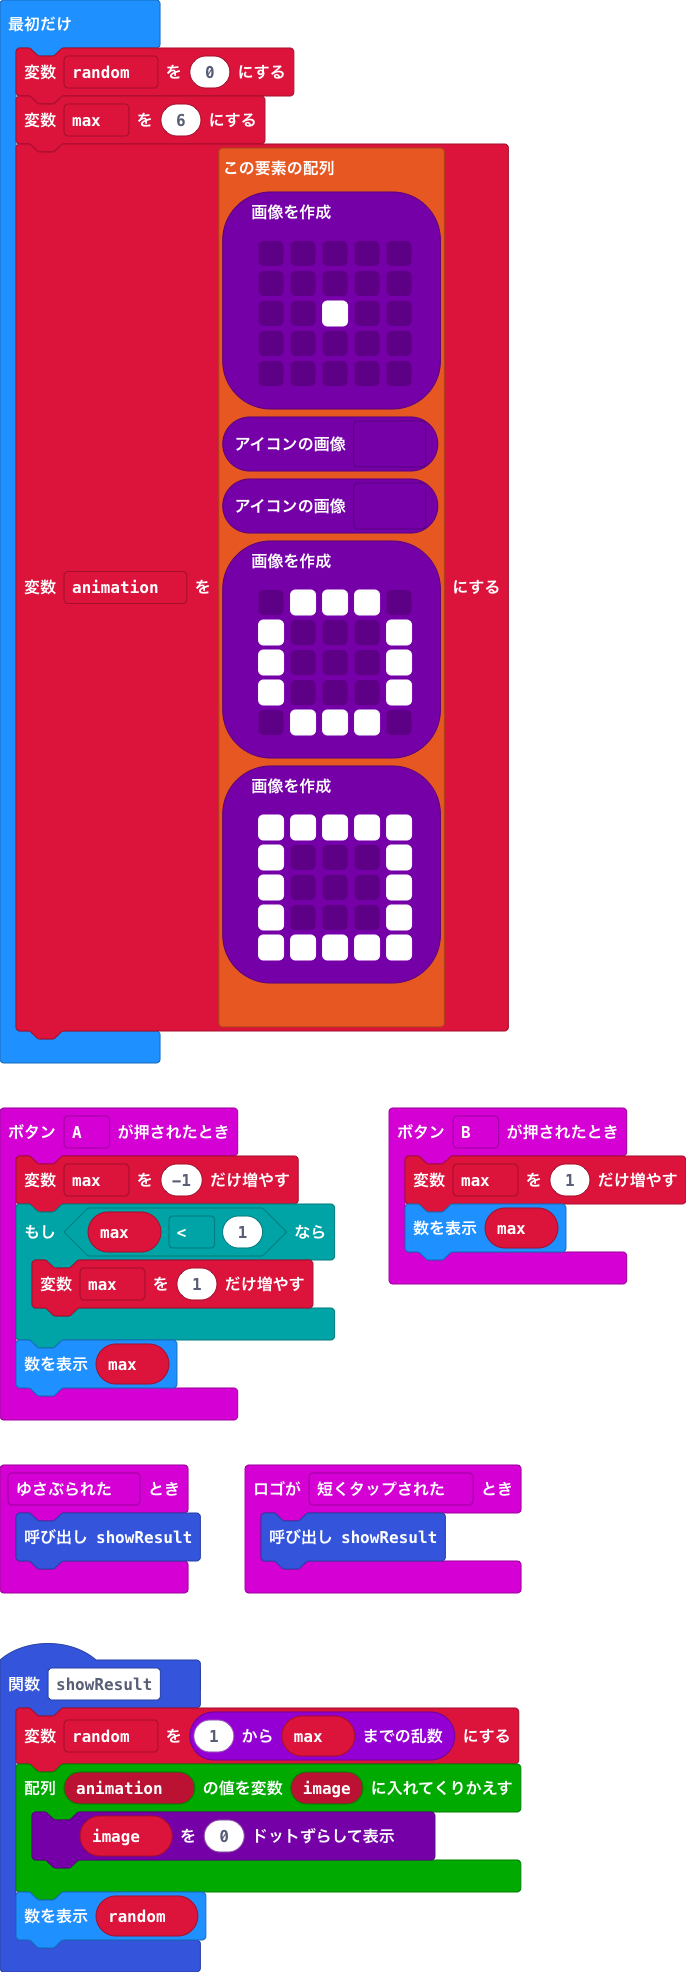
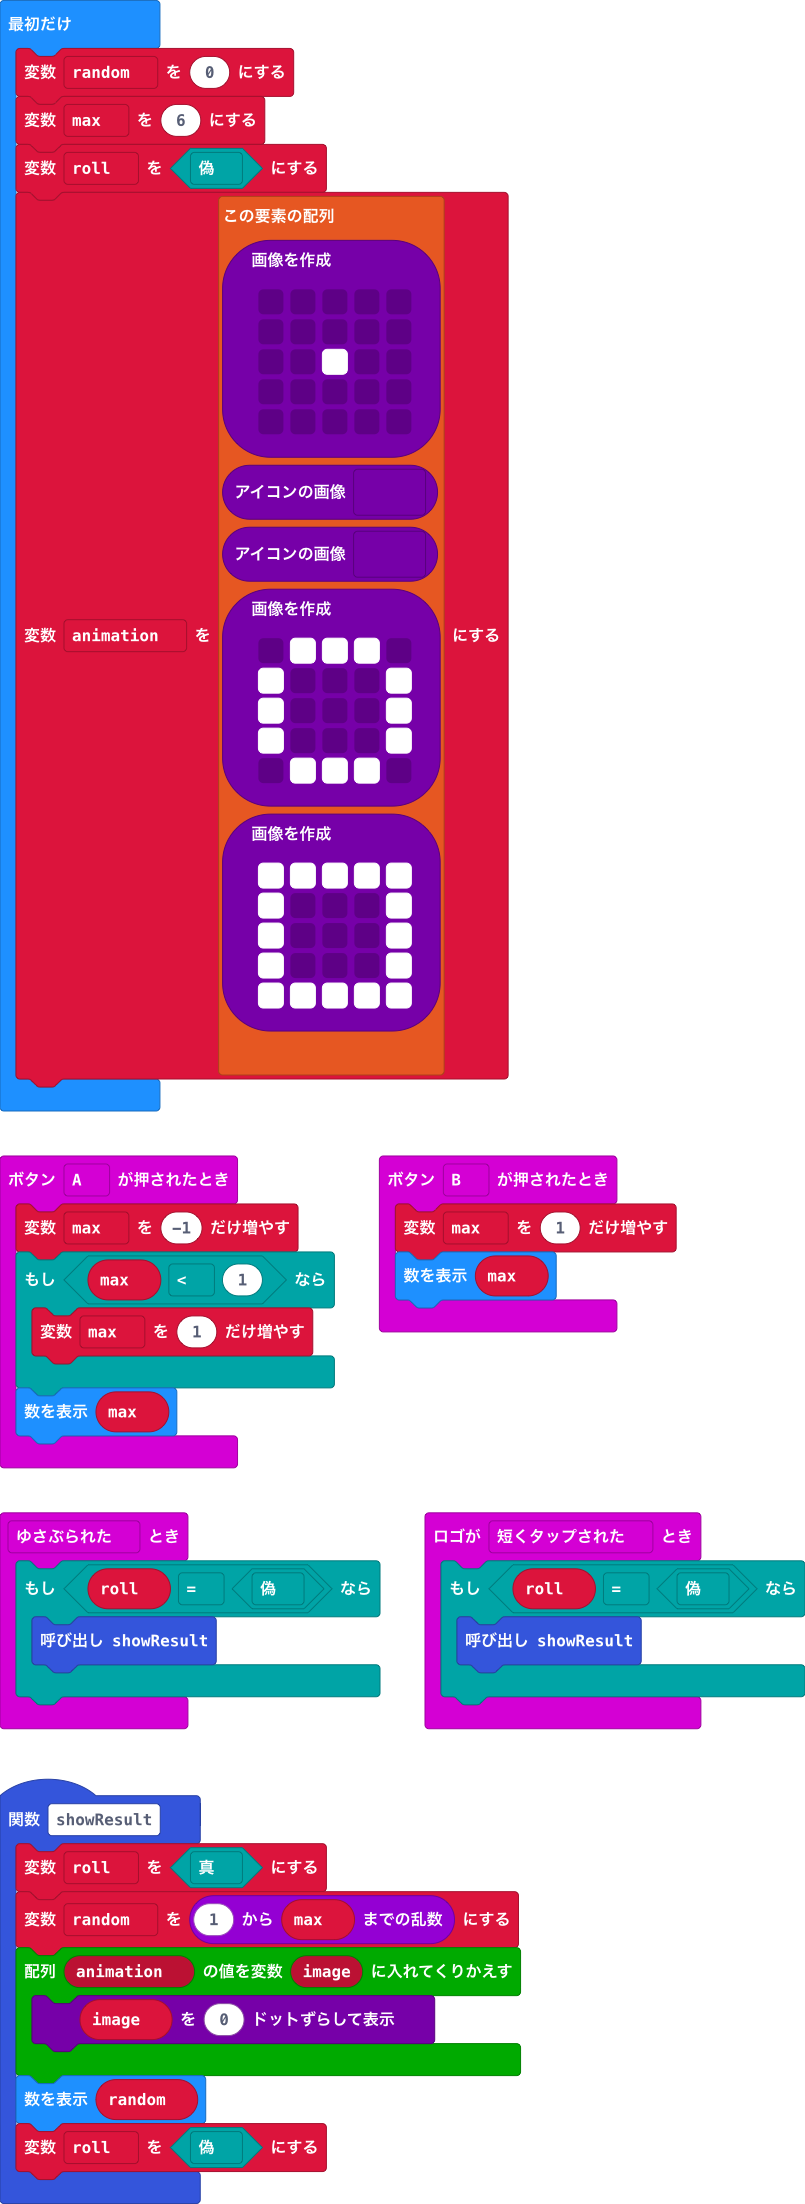
roll中にボタン/シェイクが反応しないように変更

diff --git a/main.ts b/main.ts
@@ -6,27 +6,35 @@ input.onButtonPressed(Button.A, function () {
     basic.showNumber(max)
 })
 input.onGesture(Gesture.Shake, function () {
-    showResult()
+    if (roll == false) {
+        showResult()
+    }
 })
 input.onButtonPressed(Button.B, function () {
     max += 1
     basic.showNumber(max)
 })
 function showResult () {
+    roll = true
     random = randint(1, max)
     for (let image of animation) {
         image.showImage(0)
     }
     basic.showNumber(random)
+    roll = false
 }
 input.onLogoEvent(TouchButtonEvent.Pressed, function () {
-    showResult()
+    if (roll == false) {
+        showResult()
+    }
 })
 let animation: Image[] = []
+let roll = false
 let max = 0
 let random = 0
 random = 0
 max = 6
+roll = false
 animation = [
 images.createImage(`
     . . . . .
